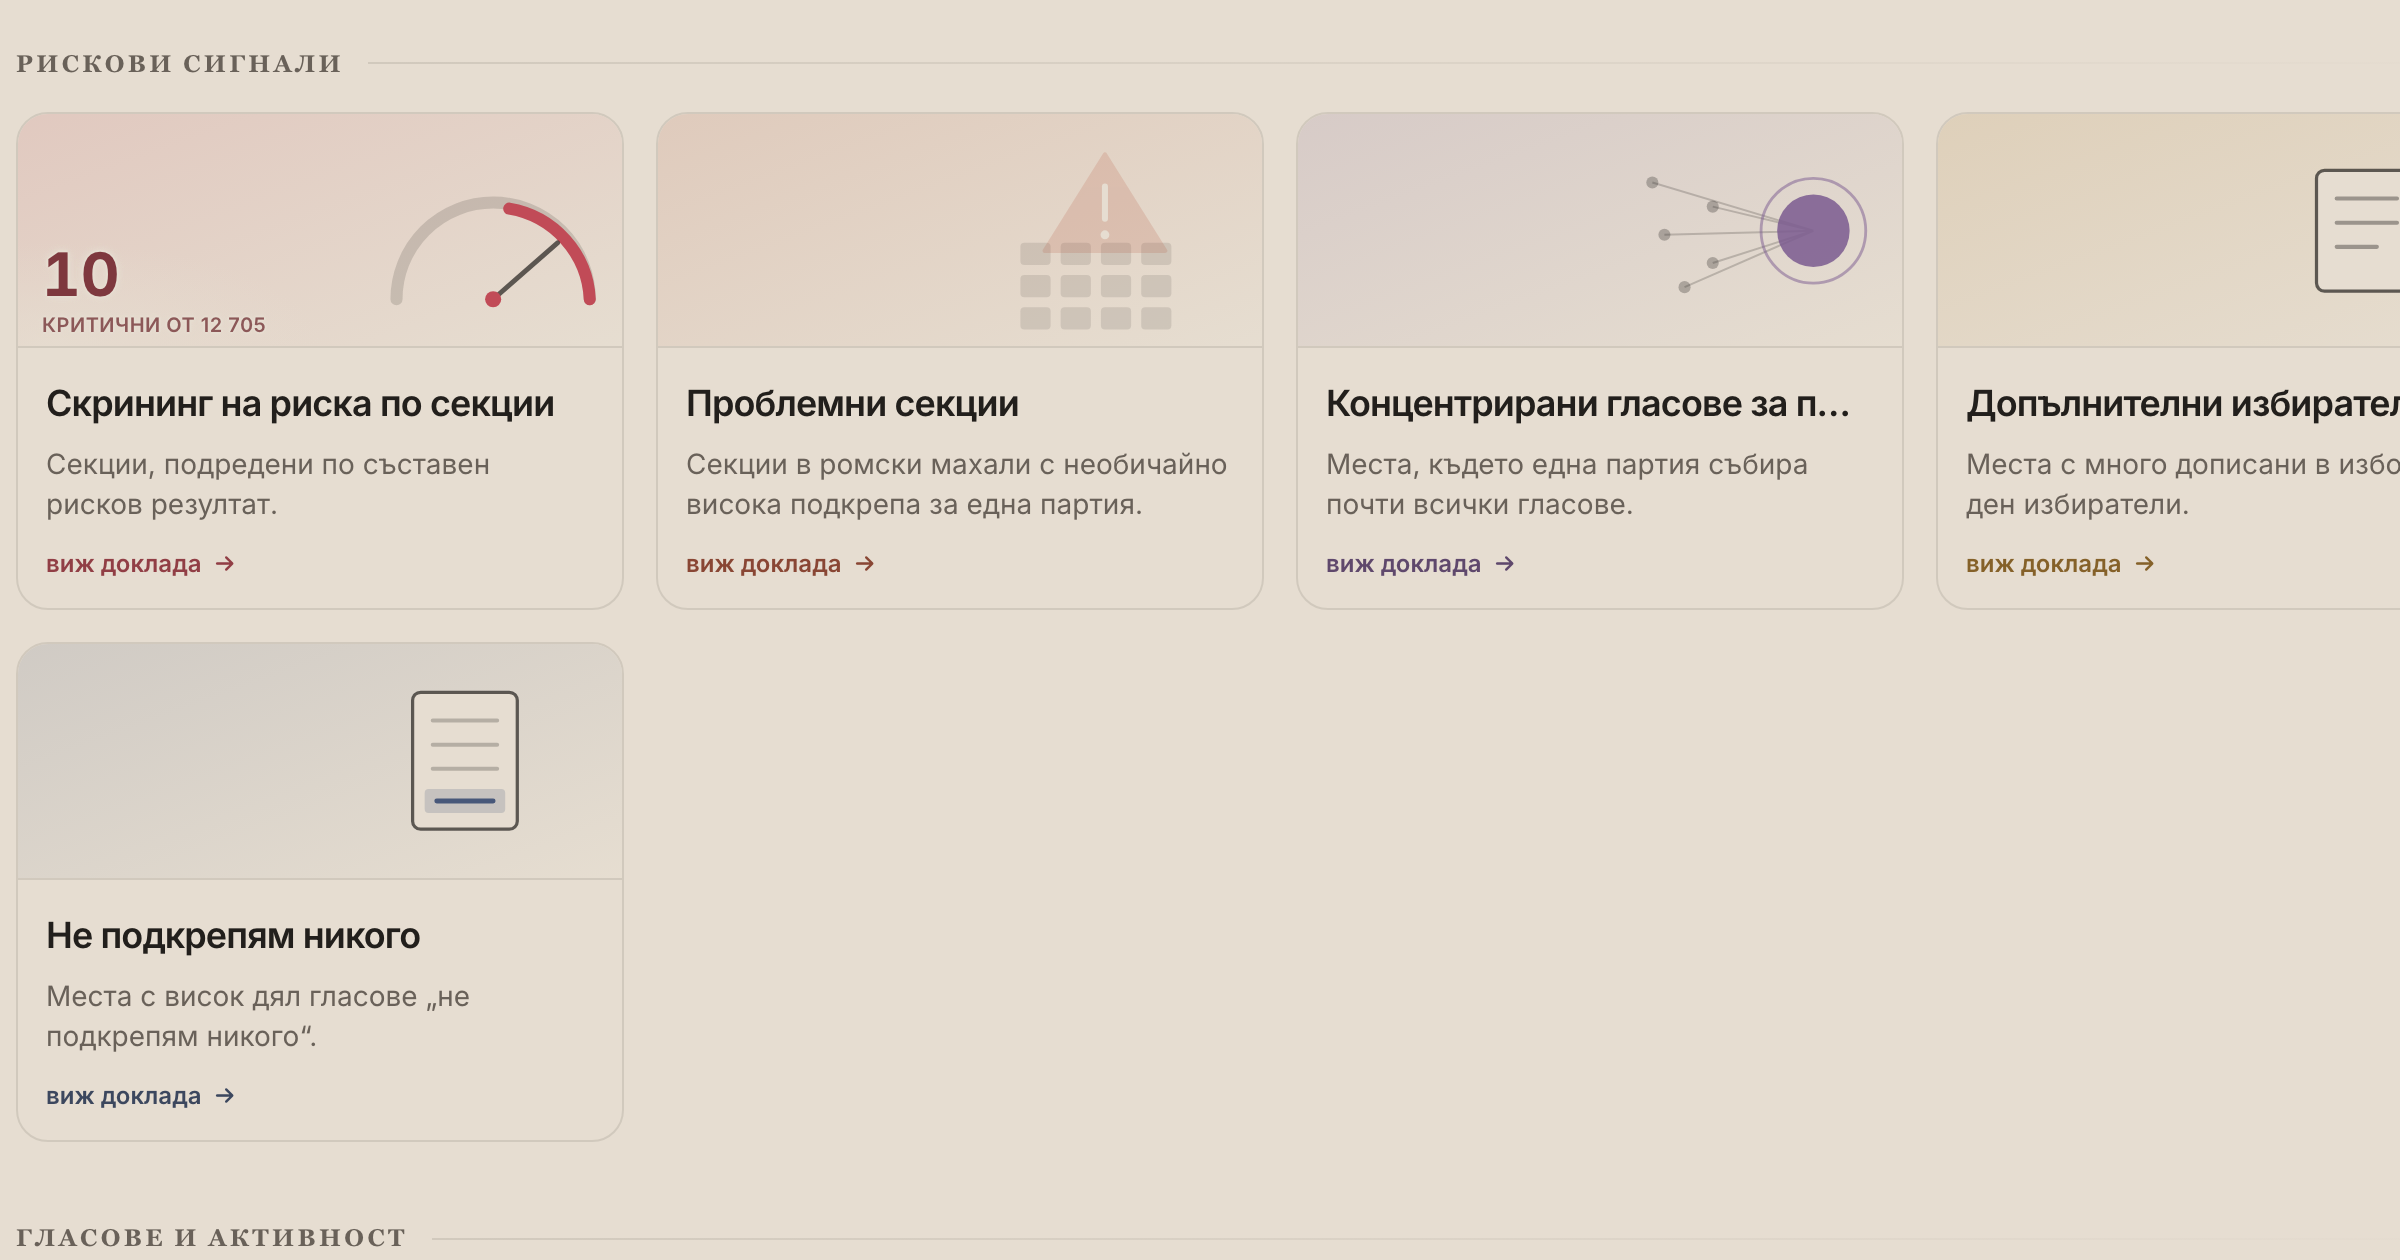
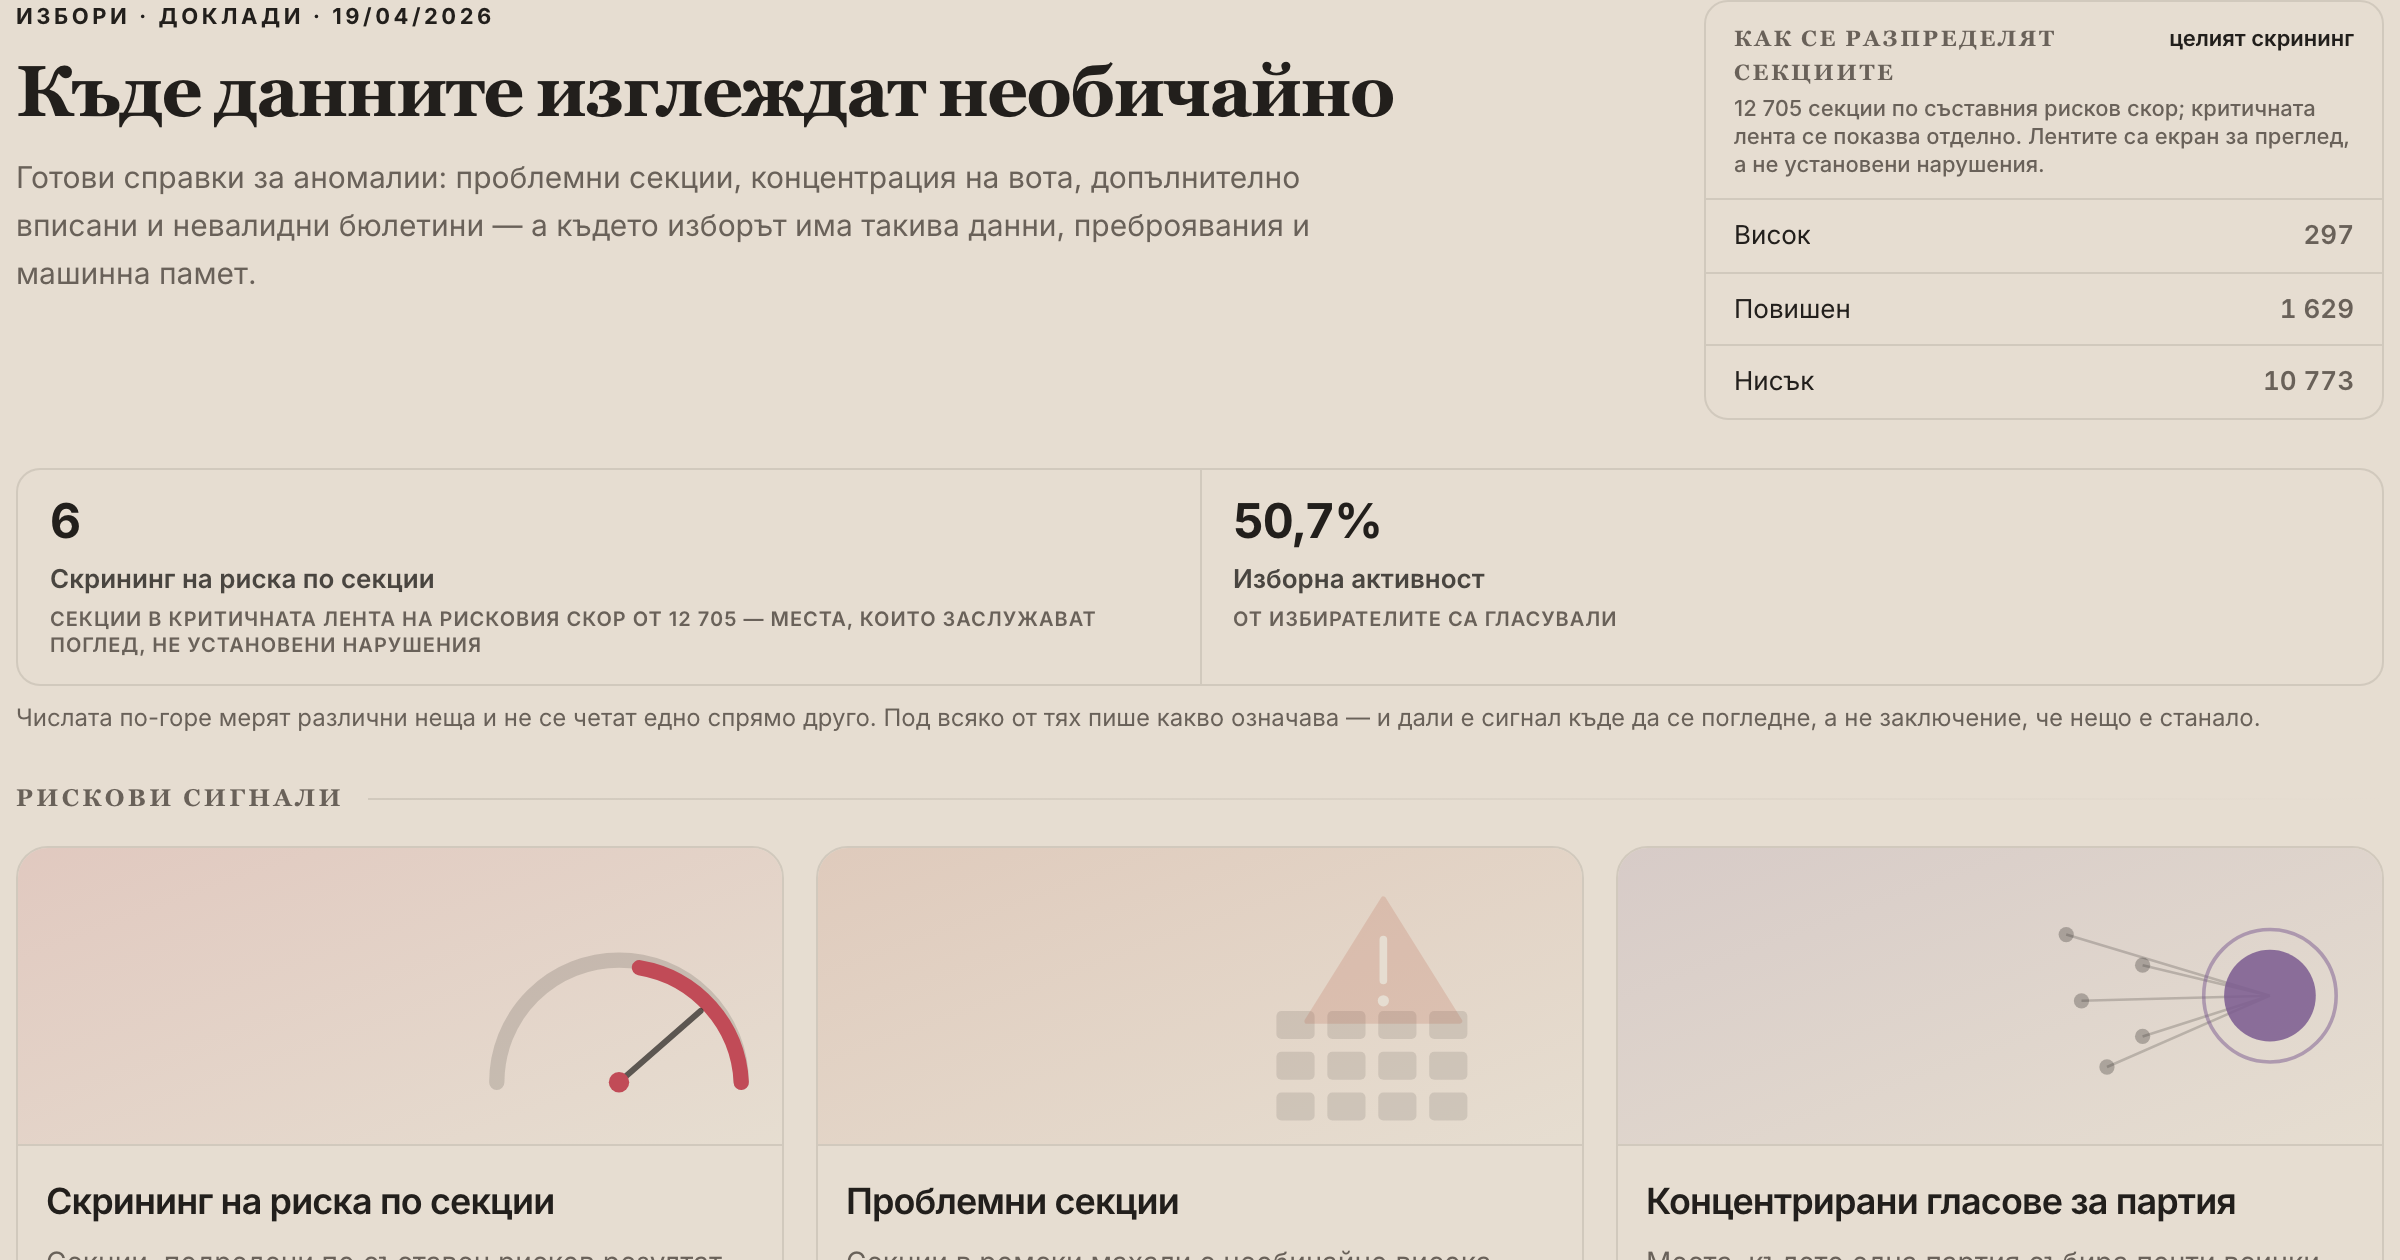
analysis + reports hub heads, step 3: the share cards
Both cards were shot from the right page and anchored on the TILE GRID, which
was right for a tile hub and wrong the moment the page grew a head — and this
change made them worse before it made them better, because step 1 promoted the
tiles' figures into the band, so the old cards led with tiles carrying no
numbers at all. Re-anchored on [data-hub-head] and re-shot: the
governance-sectors / indicators treatment, third and fourth time.

The waits count CELLS rather than naming one, because a band cell is withheld
when the selected election lacks that stat — 2005_06_25 carries no persistence
— and a partially-rendered band would otherwise resolve the wait and overwrite
a good card with a short one. The counts are read off ANALYSIS_BAND and
REPORTS_BAND rather than restated: a literal 2 beside a two-cell array is a
second copy that a third stat would silently invalidate, leaving every clause
green while a short card shipped.

COUNTED_WAITS therefore stops being a hard-coded four. /parliamentary/reports is
a genuine two-cell band — its registry carries a statId for risk and turnout
only — so the old hops < 3 rule would have demanded a chain that never resolves
and timed out on a page rendering correctly.

Both cards now name their election in the eyebrow. Every figure on these heads
comes from one cycle's payload and the control that picks it sits in the site
header, outside the frame — so an undated card published "6 sections in the
[…]

diff --git a/scripts/prerender/ogAndSitemapCoverage.test.ts b/scripts/prerender/ogAndSitemapCoverage.test.ts
@@ -25,6 +25,10 @@
 // that scans nothing passes.
 
 import { describe, expect, it } from "vitest";
+import {
+  ANALYSIS_BAND,
+  REPORTS_BAND,
+} from "@/screens/analysis/analysisHubFigures";
 import fs from "node:fs";
 import { execFileSync, execSync } from "node:child_process";
 import { stripJsxComments } from "../../src/ux/infographic/stripJsxComments";
@@ -973,20 +977,11 @@ describe("a hub's og capture anchors on its head", () => {
   /** Hubs whose card does not yet frame the head, with the reason. A real debt, named so the
    *  list shrinks rather than the rule. */
   const NOT_YET: Record<string, string> = {
-    // ⚠ BOTH ARE THE `governance-sectors` / `indicators` SHAPE — the card IS shot from the
-    // right page and only the ANCHOR is the tile grid, so both are paid by re-anchoring on
-    // `[data-hub-head]` and re-shooting, not by a new slug. Booked here rather than paid in
-    // this commit because the head landed in step 1 and the cards are step 3's work.
+    // ⚠ PAID OFF 2026-08-27, within the same run that booked them — `analysis-hub` and
+    // `reports-hub` were re-anchored on `[data-hub-head]` and re-shot, the
+    // `governance-sectors` / `indicators` treatment. Both were the cheap kind: the card was
+    // already shot from the right page and only the anchor was wrong.
     //
-    // ⚠ AND THEY GOT WORSE, not merely unchanged, which is why they are named rather than
-    // left silent: both cards lead with tile fronts whose FIGURES this step deliberately
-    // removed (§3.1 rule 5 — the promoted analyses now render bare tiles), so until the
-    // re-shoot each card depicts a grid of numberless tiles instead of the band that took
-    // those numbers.
-    "analysis-hub":
-      "anchors on the tile grid; the four promoted tiles are now bare — re-anchor on the head and re-shoot",
-    "reports-hub":
-      "anchors on the tile grid; both promoted tiles are now bare — re-anchor on the head and re-shoot",
     // Emptied on 2026-08-26 after being used THREE times that day and paid off every time
     // within a commit — which is the pattern this map is for.
     //
@@ -1317,22 +1312,39 @@ describe("a hub's og capture anchors on its head", () => {
    *  Both members can legitimately be short — `/governance/sectors` on 12 of 30 scope keys
    *  (a band cell is withheld when its basis has no publishable sector) and `/indicators` on
    *  1 of 13 elections (`unemployment` starts 2009-Q1 against 2005-Q1 for the rest). Naming
-   *  a cell cannot express that; only a sibling chain asserts LENGTH. */
-  const COUNTED_WAITS = ["governance-sectors", "indicators"];
+   *  a cell cannot express that; only a sibling chain asserts LENGTH.
+   *
+   *  ⚠ THE COUNT IS PER ENTRY, NOT A CONSTANT FOUR. `/parliamentary/reports` is a TWO-cell
+   *  band — its registry carries a `statId` for `risk` and `turnout` only — so a fixed
+   *  four-cell rule would demand a chain that never resolves, and every capture of a
+   *  correctly-rendering page would time out. This was a `hops < 3` literal until
+   *  2026-08-27, when the two-cell hub arrived. */
+  const COUNTED_WAITS: Record<string, number> = {
+    "governance-sectors": 4,
+    indicators: 4,
+    // ⚠ DERIVED FROM THE BANDS THEMSELVES, not restated. A literal `2` here is a second
+    // copy of `REPORTS_BAND.length`, so adding a third stat to that array would leave the
+    // wait demanding two, this clause asserting two, every test green — and a SHORT band
+    // shot and reported as success, which is the exact defect this clause exists to prevent,
+    // reached without touching it. The other two entries are numbers because their bands are
+    // built from a payload rather than a declared array.
+    "analysis-hub": ANALYSIS_BAND.length,
+    "reports-hub": REPORTS_BAND.length,
+  };
 
   it("a head that can render short waits on a cell COUNT, not a selector", () => {
     const offenders: string[] = [];
-    for (const slug of COUNTED_WAITS) {
+    for (const [slug, cells] of Object.entries(COUNTED_WAITS)) {
       const entry = entryFor(slug);
       if (!entry) {
         offenders.push(`${slug}: no capture entry`);
         continue;
       }
-      // Four cells means three `~` hops between `[data-kpi-cell]` selectors.
+      // N cells means N-1 `~` hops between `[data-kpi-cell]` selectors.
       const hops = (entry.match(/\[data-kpi-cell\]\s*~/g) ?? []).length;
-      if (hops < 3)
+      if (hops < cells - 1)
         offenders.push(
-          `${slug}: waits on ${hops + 1} cell(s), so a short band resolves it`,
+          `${slug}: waits on ${hops + 1} cell(s) of ${cells}, so a short band resolves it`,
         );
     }
     expect(
@@ -1340,7 +1352,7 @@ describe("a hub's og capture anchors on its head", () => {
       `these cards can be overwritten by a short band: ${offenders.join("; ")}`,
     ).toEqual([]);
     // Non-vacuity: the list is real and every member has an entry to check.
-    expect(COUNTED_WAITS.length).toBeGreaterThan(1);
+    expect(Object.keys(COUNTED_WAITS).length).toBeGreaterThan(1);
   });
 
   it("the map names every HubHead screen, so a new hub cannot slip past", () => {

diff --git a/scripts/og/capture-screens.ts b/scripts/og/capture-screens.ts
@@ -1355,23 +1355,42 @@ const captures: Capture[] = [
   {
     slug: "reports-hub",
     routePath: "parliamentary/reports",
-    // The anomaly-reports tile hub. Anchor on the tiles wrapper and top-align so
-    // the card leads with the first cluster of report tiles.
-    waitFor: '[data-og="reports-hub"] a',
-    anchor: '[data-og="reports-hub"]',
-    leftAlign: true,
+    // ⚠ RE-ANCHORED ON THE HEAD (§5.3), 2026-08-27 — the `governance-sectors` /
+    // `indicators` move, for the third and fourth time. It anchored on the tile grid, which
+    // was right for a tile hub and wrong the moment the page grew a head. Worse here than
+    // on those two: the head PROMOTED both tiles' figures, so the old card led with tiles
+    // that no longer carry a number at all.
+    //
+    // ⚠ TWO CELLS, NOT FOUR, and the wait says so. This hub's registry carries a `statId`
+    // for `risk` and `turnout` only, so a four-cell chain would never resolve and every
+    // capture would time out on a page that is rendering correctly.
+    waitFor: "[data-hub-head]:has(aside a) [data-kpi-cell] ~ [data-kpi-cell]",
+    anchor: "[data-hub-head]",
+    viewport: OG_CLIP_VIEWPORT,
     settleMs: 3000,
   },
   {
     slug: "analysis-hub",
     routePath: "parliamentary/analysis",
-    // The election-analysis tile hub. Anchor on the tiles wrapper and top-align
-    // so the card leads with the first cluster of infographic tiles + their
-    // headline numbers (critical sections / Benford-flagged parties / wasted
-    // share / stay-rate).
-    waitFor: '[data-og="analysis-hub"] a',
-    anchor: '[data-og="analysis-hub"]',
-    leftAlign: true,
+    // ⚠ RE-ANCHORED ON THE HEAD (§5.3), 2026-08-27 — see `reports-hub` above. The old
+    // comment described the card as leading with „their headline numbers"; those numbers are
+    // now in the band, and the four tiles behind them render bare.
+    //
+    // ⚠ THE WAIT COUNTS THE CELLS, because naming them cannot. A cell is withheld when the
+    // selected election's payload lacks that stat — `2005_06_25` carries no `persistence`,
+    // so that cycle is three — and this card must not be overwritten by a short one and
+    // reported as success. The capture runs on the default (latest) election, which carries
+    // all four.
+    //
+    // ⚠ `:has(aside a)` IS NOT REDUNDANT WITH THE CELL CHAIN HERE, unlike on
+    // /governance/sectors where the two clauses were logically equivalent. The rail comes
+    // from a SECOND fetch (risk_score_summary.json) with no ordering guarantee against the
+    // band's, so a head can genuinely have four cells and no aside for a frame — which is
+    // the state that would be captured.
+    waitFor:
+      "[data-hub-head]:has(aside a) [data-kpi-cell] ~ [data-kpi-cell] ~ [data-kpi-cell] ~ [data-kpi-cell]",
+    anchor: "[data-hub-head]",
+    viewport: OG_CLIP_VIEWPORT,
     settleMs: 3000,
   },
   {

diff --git a/src/screens/reports/hub/ReportsHubScreen.tsx b/src/screens/reports/hub/ReportsHubScreen.tsx
@@ -16,6 +16,7 @@ import {
   promotedStats,
 } from "@/screens/analysis/analysisHubFigures";
 import { useElectionContext } from "@/data/ElectionContext";
+import { localDate } from "@/data/utils";
 import { useAnalysisHubEvidence } from "@/screens/analysis/useAnalysisHubEvidence";
 import {
   useAnalysisStatsState,
@@ -30,7 +31,7 @@ export const ReportsHubScreen: FC = () => {
   const { stats, isPending } = useAnalysisStatsState();
   // ⚠ ALWAYS-GROUPED — bg does not group four digits on its own; see `groupedInt`.
   const formatInt = useMemo(() => groupedInt(i18n.language), [i18n.language]);
-  const { electionStats } = useElectionContext();
+  const { electionStats, selected } = useElectionContext();
   const cta = t("reports_hub_view");
 
   // statId → the report that fronts it, from THIS hub's registry — `risk` points at
@@ -114,7 +115,14 @@ export const ReportsHubScreen: FC = () => {
   return (
     <>
       <HubHead
-        eyebrow={t("reports_head_eyebrow")}
+        // ⚠ THE ELECTION IS IN THE EYEBROW, because a SHARE CARD IS SEEN WITHOUT ITS
+        // PAGE. Every figure on this head comes from `/${selected}/analysis_stats.json`,
+        // and the control that picks the cycle sits in the site header — outside the card's
+        // frame. So an undated card publishes „6 секции в критичната лента" about no stated
+        // election, on a page whose whole subject is electoral integrity. Same fix
+        // /indicators took, one line up rather than per basis: here every cell shares ONE
+        // cycle, so dating each of them would repeat the same date four times.
+        eyebrow={t("reports_head_eyebrow", { election: localDate(selected) })}
         title={t("reports_head_title")}
         seoDescription={t("reports_hub_seo_description")}
         deck={t("reports_head_deck")}

diff --git a/src/screens/analysis/AnalysisHubScreen.tsx b/src/screens/analysis/AnalysisHubScreen.tsx
@@ -23,6 +23,8 @@ import {
   groupedInt,
   promotedStats,
 } from "./analysisHubFigures";
+import { useElectionContext } from "@/data/ElectionContext";
+import { localDate } from "@/data/utils";
 import { useAnalysisHubEvidence } from "@/screens/analysis/useAnalysisHubEvidence";
 import {
   useAnalysisStatsState,
@@ -36,6 +38,7 @@ import { REPORT_SCENES } from "@/screens/reports/hub/reportsHubScenes";
 
 export const AnalysisHubScreen: FC = () => {
   const { t, i18n } = useTranslation();
+  const { selected } = useElectionContext();
   const { stats, isPending } = useAnalysisStatsState();
   // ⚠ ALWAYS-GROUPED — bg does not group four digits on its own; see `groupedInt`.
   const formatInt = useMemo(() => groupedInt(i18n.language), [i18n.language]);
@@ -103,7 +106,14 @@ export const AnalysisHubScreen: FC = () => {
   return (
     <>
       <HubHead
-        eyebrow={t("analysis_head_eyebrow")}
+        // ⚠ THE ELECTION IS IN THE EYEBROW, because a SHARE CARD IS SEEN WITHOUT ITS
+        // PAGE. Every figure on this head comes from `/${selected}/analysis_stats.json`,
+        // and the control that picks the cycle sits in the site header — outside the card's
+        // frame. So an undated card publishes „6 секции в критичната лента" about no stated
+        // election, on a page whose whole subject is electoral integrity. Same fix
+        // /indicators took, one line up rather than per basis: here every cell shares ONE
+        // cycle, so dating each of them would repeat the same date four times.
+        eyebrow={t("analysis_head_eyebrow", { election: localDate(selected) })}
         title={t("analysis_head_title")}
         seoDescription={t("analysis_hub_seo_description")}
         deck={t("analysis_head_deck")}
